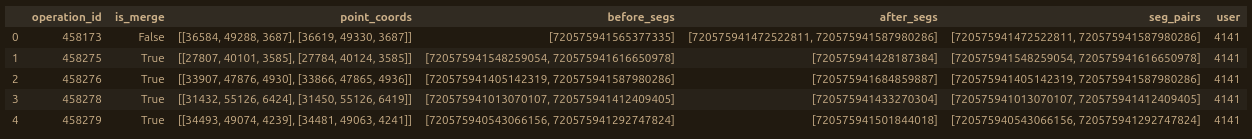
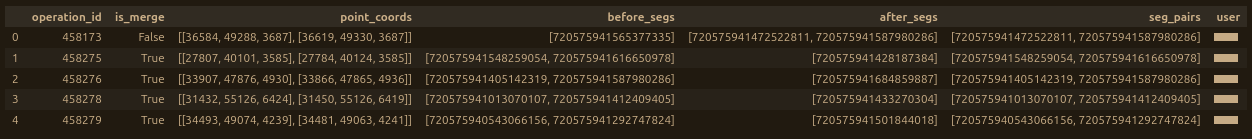
fixed typos in get_seg_details docstring, anaonymized example image for get_seg_edits

diff --git a/src/tracertools/utils.py b/src/tracertools/utils.py
@@ -2387,7 +2387,7 @@ def get_seg_details(
     Returns:
         out_rows (list of lists):
             a list of lists, for which each entry will be structured as
-            [original ID, current id, volume, cable length, ougoing syns, incoming sysns, total syns]
+            [original ID, current id, volume, cable length, ougoing syns, incoming syns, total syns]
     """
 
     # gets current ids for each seg
